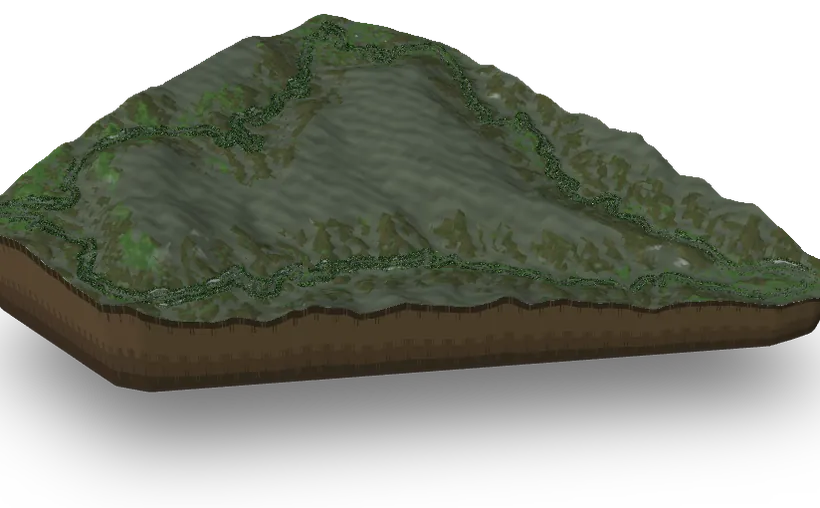
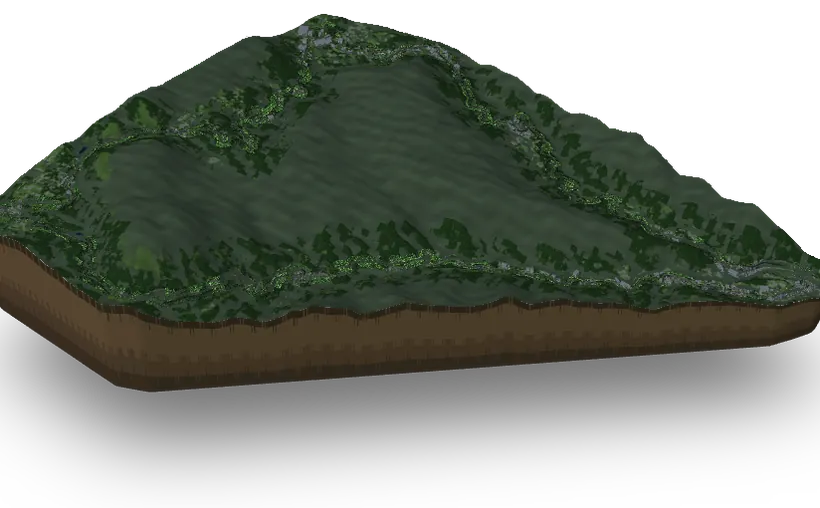
Proga Hakone, sklop 5: slike za meni z okolico, referenca sveta po spoju
- assets/tracks/hakone.webp in hakone-rain.webp znova narisani s pravo okolico (dio2.mjs); daljni pogled je v maketi skrit
  (brez kamere stoji v tančici na svojem mestu), podlaga v barvi gozda: nova možnost `hide` v dio_page2.js, vrstica v proge_igra.json
- komentarji v kodi kažejo na skripte v zgodovini repozitorija (tools/hakone ni več v repozitoriju)
- referenca world za Hakone po spoju z main (fewFans: gledalci v redkih skupinah)

Claude-Session: https://claude.ai/code/session_01UuPU9BAU2VJhfoiPbrcFmL

Changed region(s): [[0.0, 0.0295, 1.0, 0.6496]]

diff --git a/js/tracks/hakone.js b/js/tracks/hakone.js
@@ -8,7 +8,7 @@ var TRACK_DEFS = TRACK_DEFS || [];
   // Otama-ga-ike, the Sarusuberi hairpin, the Seven Bends (Nanamagari: twelve hairpins in a row), the village of Hatajuku and the Sukumo valley
   // back down to Yumoto, left at Sanmaibashi and 390 m on road 1 to the line. One lap, 100 cars from a flying start (as the Nordschleife).
   // Only the places' names (no hotels, firms, the railway's operator or the race run on road 1).
-  // Centre line: OpenStreetMap (© OpenStreetMap contributors, ODbL 1.0), roads 1 and 732 (tools/hakone/pot.py), smoothed, the Sanmaibashi
+  // Centre line: OpenStreetMap (© OpenStreetMap contributors, ODbL 1.0), roads 1 and 732 (tools/hakone/pot.py; the scripts are in the repository's history, docs/proga-hakone.md), smoothed, the Sanmaibashi
   // junction rounded and the hairpins opened to a 10.5 m radius with their legs 21 m apart at least, as on the Irohazaka (tools/hakone/proga.py:
   // the road moved 0.1 m on average and 5 m at most); metres, origin = the start line, x east, z south.
   // Heights (HK.h): Copernicus DEM GLO-30 along the real line, the canopy and the bridges taken out, grades capped at 10 % on road 1 and 13 % on
@@ -18,7 +18,7 @@ var TRACK_DEFS = TRACK_DEFS || [];
   // 32 m cells, a 256 m trend and 1 m residuals within 650 m of the road; tools/hakone/teren.py) and land cover (lc: ESA WorldCover 2021, the
   // canopy heights and OpenStreetMap, 16 m cells, run-length coded: 0 open, 1 forest, 2 shrubs, 3 built-up, 4 bare rock, 5 water;
   // tools/hakone/okolica.py). Derived data under the ODbL 1.0.
-  // ---- HK-DATA: made by tools/hakone/proga.py (python3 -I tools/hakone/proga.py), not by hand ----
+  // ---- HK-DATA: made by tools/hakone/proga.py (in the repository's history: docs/proga-hakone.md), not by hand ----
   const HK = {
     start: [-0.01,0.0], d: {"yumoto":139.8,"tonosawa":1157.2,"deyama":1935.9,"ohiradai":4164.8,"sennindai":5070.8,"miyanoshita":5910.1,"sokokura":6667.5,"kowakidani":7561.3,"ninotaira":8505.9,"ashinoyu":12862.9,"summit":13371.7,"shojin":13826.2,"motohakone":15238.1,"otama":16024.7,"sarusuberi":17802.0,"sevenbends":18659.6,"hatajuku":20479.3,"sukumogawa":22179.3,"yumotochaya":23706.3,"okuyumoto":23931.7,"sanmaibashi":26264.5},
     bridges: [[512.1,519.2],[767.0,799.5],[875.4,885.7],[986.8,999.3],[1118.0,1120.5],[2685.1,2702.7],[7076.6,7084.9],[8090.6,8095.3],[19210.6,19266.1],[20898.6,20917.4],[22123.5,22140.1],[22771.8,22777.0],[23195.2,23211.4],[23474.0,23488.8],[24028.8,24034.1],[24104.3,24110.1],[24133.5,24156.8],[24555.5,24560.1],[26238.5,26241.0]],

diff --git a/tests/hakone.test.js b/tests/hakone.test.js
@@ -1,7 +1,7 @@
 // Hakone (Japan, docs/proga-hakone.md): one lap of the public roads round Hakone, 26.8 km: national road 1 up from Yumoto to its top (874 m)
 // and down to Moto-Hakone, the old Tōkaidō (road 732) through the Seven Bends back to Yumoto. A closed lap, one lap, 100 cars from a flying
 // start as the Nordschleife (def.raceRivals 99, def.flyStart). The road: the OpenStreetMap line smoothed, the hairpins opened to a 10.5 m radius
-// with their legs 21 m apart at least (tools/hakone/proga.py), so no barrier reaches the other leg; the heights from Copernicus GLO-30, grades
+// with their legs 21 m apart at least (tools/hakone/proga.py, in the repository's history), so no barrier reaches the other leg; the heights from Copernicus GLO-30, grades
 // capped (10 % on road 1, 13 % on road 732, +0.5 % where the hairpins were flattened), the hairpins flatter than the legs between them. The
 // 25 hairpins where the real road has them, each turning the way the data says; the places on the HUD in the order of the lap; one blue sign
 // over the Seven Bends. A whole race as the game's Circuit race runs it (99 rivals, the flying start's column, the player at its back on the

diff --git a/index.html b/index.html
@@ -530,7 +530,7 @@
 <script src="js/lang.js?v=503b06b9"></script>
 <script src="js/tracks/marrakesh.js?v=3a59b91b"></script>
 <script src="js/tracks/troisrivieres.js?v=1ff731df"></script>
-<script src="js/tracks/hakone.js?v=90f6bb95"></script>
+<script src="js/tracks/hakone.js?v=74e42b08"></script>
 <link rel="x-lazy-script" data-lazy="newmap" href="js/newmap.js?v=47375106">
 <link rel="x-lazy-script" data-lazy="nvpark" href="js/nvpark.js?v=476d2078">
 <link rel="x-lazy-script" data-lazy="nvbase" href="js/nvbase.js?v=c4fafea7">
@@ -622,8 +622,8 @@
 <script src="js/world-detroit.js?v=f7acfa28"></script>
 <script src="js/world-marrakesh.js?v=5b1b3225"></script>
 <script src="js/world-troisrivieres.js?v=75218e49"></script>
-<script src="js/data/hakone.js?v=77b6c6b6"></script>
-<script src="js/world-hakone.js?v=df3f0727"></script>
+<script src="js/data/hakone.js?v=2241ba43"></script>
+<script src="js/world-hakone.js?v=311dba7a"></script>
 <script src="js/render.js?v=3a58a6f6"></script>
 <script src="js/sfx.js?v=19ca0616"></script>
 <script src="js/input.js?v=e5fc90b2"></script>

diff --git a/js/data/hakone.js b/js/data/hakone.js
@@ -1,5 +1,5 @@
 /* Hakone (theme 'hakone'): the scenery data for js/world-hakone.js (metres, origin = the start line, x east, z south), made by tools/hakone/svet.py
-   from tools/hakone/podatki (not by hand; format in that tool and in docs/proga-hakone.md). Buildings, the railway, the old road's stone paving,
+   (not by hand; the script and its data are in the repository's history, docs/proga-hakone.md »Podatki«). Buildings, the railway, the old road's stone paving,
    the torii, the lakes and the rivers: OpenStreetMap (© OpenStreetMap contributors, ODbL 1.0). Trees: High Resolution Canopy Height Maps (Meta and
    World Resources Institute 2024, CC BY 4.0). The far view (far, fuji): Copernicus DEM GLO-30 (produced using Copernicus WorldDEM-30 © DLR e.V.
    2010-2014 and © Airbus Defence and Space GmbH 2014-2018 provided under COPERNICUS by the European Union and ESA; all rights reserved), its land

diff --git a/maketa-menija/orodja/dio_page2.js b/maketa-menija/orodja/dio_page2.js
@@ -160,6 +160,9 @@ window.DIO = (function () {
   function prepare(id, opt) {
     if (built && built.id === id && built.key === JSON.stringify([opt.margin, opt.extra, opt.soil, opt.crop])) return built;
     const B = buildWorld(id), { T, sc, w, def } = B;
+    // opt.hide: meshes of these names left out (Hakone's far view, hkFar and hkFuji: with no camera it stands half hazed in its own place, pale
+    // over the cut; the ground under it is then the fill, opt.fillCol)
+    if (opt.hide) w.root.traverse(o => { if (opt.hide.includes(o.name)) o.visible = false; });
     // 1. cut outline: convex hull of the centre line (+ extra anchor points), grown by the margin, reduced to few edges
     const pts = []; for (let i = 0; i < T.N; i += 2) pts.push([T.px[i], T.pz[i]]);
     (opt.extra || []).forEach(p => pts.push(p));

diff --git a/js/world-hakone.js b/js/world-hakone.js
@@ -1,7 +1,7 @@
 /* =========================================================================
    WORLD — Hakone (theme 'hakone'): its own builder (World.ext.hakone). What it uses of World comes from World.api: the helpers bound here
    once, the state that changes as API.<name>, the track being built and its theme (LOD, T) copied in at each build. Its scenery data is
-   js/data/hakone.js (HK_DATA, made by tools/hakone/svet.py).
+   js/data/hakone.js (HK_DATA; the script that made it is in the repository's history, docs/proga-hakone.md).
    ========================================================================= */
 (function () {
   'use strict';

diff --git a/maketa-menija/README.md b/maketa-menija/README.md
@@ -263,6 +263,8 @@ node check.mjs                                   # vsi zasloni v vseh stanjih ->
 node flow.mjs                                    # odigra današnjo dirko, vse tri načine, izbiro avta in vremena, uvod pred dirko, vse štiri načine kariere in multiplayer -> shots/
 ```
 
+Maketa sveta, ki ima teren le ob cesti (koridor): kar ostane odprto, pokrije podlaga v barvi `fillCol` (v vrstici `proge_igra.json`); daljni pogled, ki brez kamere stoji na svojem mestu v tančici, skrije `hide` z imeni njegovih mrež (Hakone: `["hkFar", "hkFuji"]`, podlaga v barvi gozda).
+
 Zemljevidi prog potrebujejo igro z Vršičem v `maketa-menija/game_vrsic/` in ffmpeg z VP9 (paket `imageio-ffmpeg`):
 
 ```
